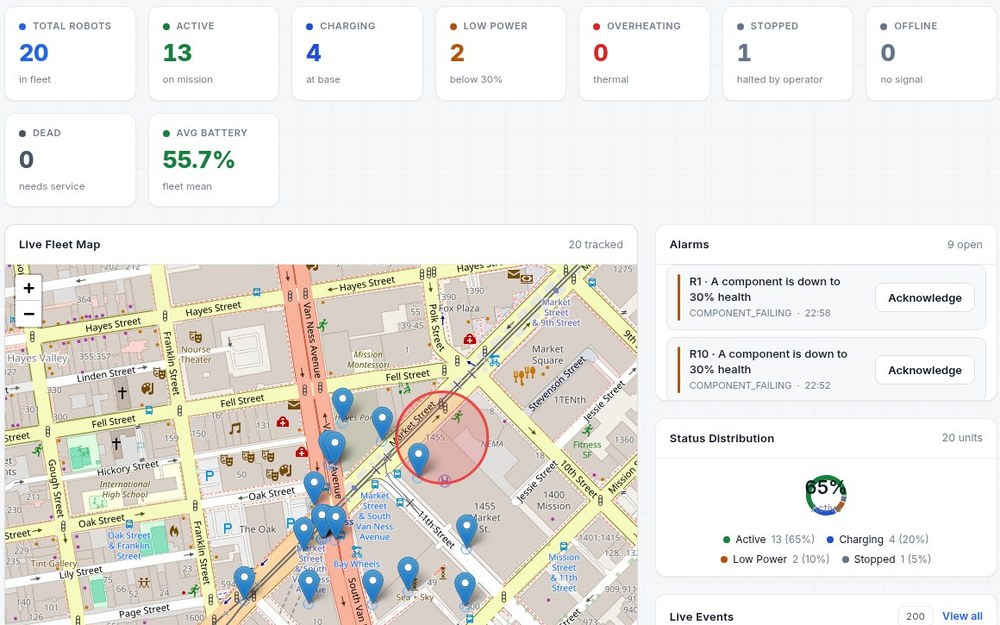
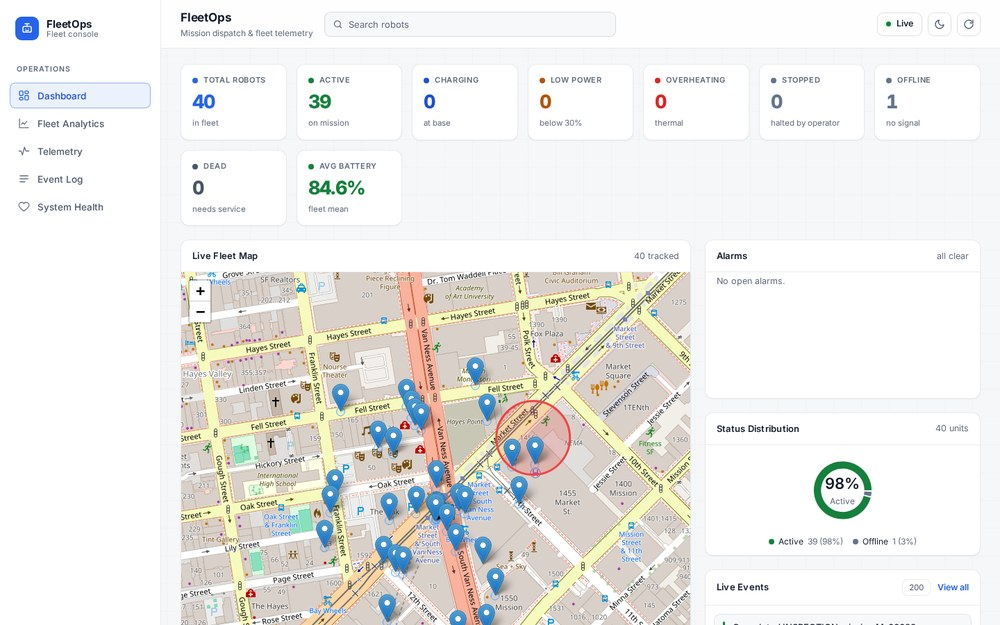
Add recent test results, new FleetOps screenshot and the intrusion detection project

diff --git a/README.md b/README.md
@@ -4,7 +4,7 @@
   <a href="https://www.linkedin.com/in/colin-k-thomas"><img src="https://img.shields.io/badge/LinkedIn-colin--k--thomas-0A66C2?style=flat-square" alt="LinkedIn"></a> <img src="https://img.shields.io/badge/Chennai-India-22C55E?style=flat-square" alt="Chennai, India"> <img src="https://img.shields.io/badge/VIT_Chennai-B.Tech_CSE_2027-7C3AED?style=flat-square" alt="VIT Chennai, B.Tech CSE, 2027">
 </p>
 
-I'm a computer science student at VIT Chennai. Most of what I write is backend code in Python, and the part I enjoy most is working out what happens when things fail: a broker restarting mid-stream, a worker dying halfway through a job, an API running out of quota. I cause those failures on purpose, fix what breaks and write down what I measured.
+I'm a computer science student at VIT Chennai. Most of what I write is backend code in Python, and the part I enjoy most is working out what happens when things fail: a broker restarting mid-stream, a worker dying halfway through a job, an API running out of quota. I cause those failures on purpose, fix what breaks and write down what I measured. The bigger projects also have browser, load and smoke tests, and the smoke tests run against the live sites.
 
 <img src="assets/numbers.svg" width="100%" alt="60 to 96 Hz with linuxcru; 30,000 rupees of college funding for the hyacinth boat; 98% Recall@5 in Lumen; notes 14.8 s after stopping in Meeting Summarizer; 0 readings lost in FleetOps chaos tests; 17 of 20 chart pages without paid vision calls">
 
@@ -40,7 +40,7 @@ Windows has CRU for adding custom refresh rates. On Linux, `xrandr` can't add mo
 
 linuxcru does all of that from one number. It calculates the timings, writes a valid EDID and installs it as a kernel firmware override, on Wayland or X11 and with Secure Boot. Only a small helper runs as root, and every change can be previewed with `--dry-run`.
 
-I built it so anyone can use it. It's open source, installs with pipx and works on Ubuntu, Debian, Linux Mint and other distros that boot with GRUB and initramfs-tools.
+I built it so anyone can use it. It's open source, installs with pipx and works on Ubuntu, Debian, Linux Mint and other distros that boot with GRUB and initramfs-tools. CI fails if tests cover less than 90% of the code, and each release goes through a manual test plan on real hardware.
 
 <img src="https://img.shields.io/badge/Python-3776AB?style=flat-square&logo=python&logoColor=white" alt="Python"> <img src="https://img.shields.io/badge/Qt_/_PySide6-41CD52?style=flat-square&logo=qt&logoColor=white" alt="Qt / PySide6"> <img src="https://img.shields.io/badge/EDID-F43F5E?style=flat-square" alt="EDID"> <img src="https://img.shields.io/badge/Linux-FCC624?style=flat-square&logo=linux&logoColor=black" alt="Linux"> <img src="https://img.shields.io/badge/pytest-0A9EDC?style=flat-square&logo=pytest&logoColor=white" alt="pytest">
 
@@ -60,9 +60,9 @@ I built it so anyone can use it. It's open source, installs with pipx and works 
 ### [FleetOps](https://github.com/colin-110/robot-fleet-platform)
 <sub><a href="https://robot-fleet-platform.vercel.app">Live demo</a> · <a href="https://github.com/colin-110/robot-fleet-platform">Code</a></sub>
 
-<a href="https://robot-fleet-platform.vercel.app"><img src="assets/screens/fleetops.jpg" alt="FleetOps live dashboard with fleet status and robots on the map"></a>
+<a href="https://robot-fleet-platform.vercel.app"><img src="assets/screens/fleetops.jpg" alt="FleetOps dashboard with fleet status, alarms and 40 robots on the map"></a>
 
-Monitoring and control for a robot fleet. Readings are acknowledged only after they're committed and robots keep an on-disk outbox, so chaos tests that killed the robots, the API or the broker lost nothing. A shared predictor cut robot messages by 55% in the simulator.
+Monitoring and control for a robot fleet. Readings are acknowledged only after they're committed and robots keep an on-disk outbox, so chaos tests that killed the robots, the API or the broker lost nothing. A shared predictor cut robot messages by 55% in the simulator, and one API process handled 1,000 robots on 35% of a CPU core. 942 tests run on every push.
 
 <img src="https://img.shields.io/badge/FastAPI-009688?style=flat-square&logo=fastapi&logoColor=white" alt="FastAPI"> <img src="https://img.shields.io/badge/MQTT-660066?style=flat-square&logo=mqtt&logoColor=white" alt="MQTT"> <img src="https://img.shields.io/badge/TimescaleDB-FDB515?style=flat-square&logo=timescale&logoColor=black" alt="TimescaleDB"> <img src="https://img.shields.io/badge/React-20232A?style=flat-square&logo=react&logoColor=61DAFB" alt="React">
 
@@ -88,7 +88,7 @@ A self-hosted document assistant that answers with citations. Hybrid search with
 
 <a href="https://meeting-summarizer-recorder.vercel.app"><img src="assets/screens/meeting-summarizer.jpg" alt="Meeting Summarizer upload and record page"></a>
 
-Turns a recording into a transcript, a summary, decisions and action items. Jobs run exactly once on a SQLite queue with leases and heartbeats instead of Redis and Celery, and long meetings are summarized while they're still being recorded.
+Turns a recording into a transcript, a summary, decisions and action items. Jobs run exactly once on a SQLite queue with leases and heartbeats instead of Redis and Celery, and long meetings are summarized while they're still being recorded. A smoke test runs against the live app every day.
 
 <img src="https://img.shields.io/badge/FastAPI-009688?style=flat-square&logo=fastapi&logoColor=white" alt="FastAPI"> <img src="https://img.shields.io/badge/SQLite-003B57?style=flat-square&logo=sqlite&logoColor=white" alt="SQLite"> <img src="https://img.shields.io/badge/Whisper-10A37F?style=flat-square" alt="Whisper"> <img src="https://img.shields.io/badge/FFmpeg-007808?style=flat-square&logo=ffmpeg&logoColor=white" alt="FFmpeg">
 
@@ -156,9 +156,10 @@ A Chrome extension that highlights problems I've ticked off on NeetCode but neve
 
 - [Robot kinematics simulator](https://github.com/colin-110/robot-kinematics-ik-simulator): forward and inverse kinematics for a 6-DOF arm, with a live 3D view
 - [Algal bloom forecasting](https://github.com/colin-110/hab_project_ml): an XGBoost model that predicts harmful algal blooms from satellite and climate data
+- [Hybrid intrusion detection](https://github.com/colin-110/Hybrid_IDS_ml_crypto): a Random Forest for known attacks and an Isolation Forest for unusual traffic, trained on UNSW-NB15 and run on live Windows network activity
 
 ## Tools
 
 <img src="https://img.shields.io/badge/Python-3776AB?style=flat-square&logo=python&logoColor=white" alt="Python"> <img src="https://img.shields.io/badge/C%2B%2B-00599C?style=flat-square&logo=cplusplus&logoColor=white" alt="C++"> <img src="https://img.shields.io/badge/Java-ED8B00?style=flat-square&logo=openjdk&logoColor=white" alt="Java"> <img src="https://img.shields.io/badge/TypeScript-3178C6?style=flat-square&logo=typescript&logoColor=white" alt="TypeScript"> <img src="https://img.shields.io/badge/SQL-4479A1?style=flat-square" alt="SQL"> <img src="https://img.shields.io/badge/FastAPI-009688?style=flat-square&logo=fastapi&logoColor=white" alt="FastAPI"> <img src="https://img.shields.io/badge/MQTT-660066?style=flat-square&logo=mqtt&logoColor=white" alt="MQTT"> <img src="https://img.shields.io/badge/Celery-37814A?style=flat-square&logo=celery&logoColor=white" alt="Celery"><br>
 <img src="https://img.shields.io/badge/PostgreSQL-4169E1?style=flat-square&logo=postgresql&logoColor=white" alt="PostgreSQL"> <img src="https://img.shields.io/badge/TimescaleDB-FDB515?style=flat-square&logo=timescale&logoColor=black" alt="TimescaleDB"> <img src="https://img.shields.io/badge/SQLite-003B57?style=flat-square&logo=sqlite&logoColor=white" alt="SQLite"> <img src="https://img.shields.io/badge/Redis-DC382D?style=flat-square&logo=redis&logoColor=white" alt="Redis"> <img src="https://img.shields.io/badge/Qdrant-DC244C?style=flat-square&logo=qdrant&logoColor=white" alt="Qdrant"> <img src="https://img.shields.io/badge/React-20232A?style=flat-square&logo=react&logoColor=61DAFB" alt="React"> <img src="https://img.shields.io/badge/Next.js-000000?style=flat-square&logo=nextdotjs&logoColor=white" alt="Next.js"><br>
-<img src="https://img.shields.io/badge/Docker-2496ED?style=flat-square&logo=docker&logoColor=white" alt="Docker"> <img src="https://img.shields.io/badge/AWS-FF9900?style=flat-square" alt="AWS"> <img src="https://img.shields.io/badge/GitHub_Actions-2088FF?style=flat-square&logo=githubactions&logoColor=white" alt="GitHub Actions"> <img src="https://img.shields.io/badge/Prometheus-E6522C?style=flat-square&logo=prometheus&logoColor=white" alt="Prometheus"> <img src="https://img.shields.io/badge/Grafana-F46800?style=flat-square&logo=grafana&logoColor=white" alt="Grafana"> <img src="https://img.shields.io/badge/Linux-FCC624?style=flat-square&logo=linux&logoColor=black" alt="Linux"> <img src="https://img.shields.io/badge/ESP32-E7352C?style=flat-square&logo=espressif&logoColor=white" alt="ESP32"> <img src="https://img.shields.io/badge/FreeRTOS-2E7D32?style=flat-square" alt="FreeRTOS">
+<img src="https://img.shields.io/badge/Playwright-2EAD33?style=flat-square" alt="Playwright"> <img src="https://img.shields.io/badge/Docker-2496ED?style=flat-square&logo=docker&logoColor=white" alt="Docker"> <img src="https://img.shields.io/badge/AWS-FF9900?style=flat-square" alt="AWS"> <img src="https://img.shields.io/badge/GitHub_Actions-2088FF?style=flat-square&logo=githubactions&logoColor=white" alt="GitHub Actions"> <img src="https://img.shields.io/badge/Prometheus-E6522C?style=flat-square&logo=prometheus&logoColor=white" alt="Prometheus"> <img src="https://img.shields.io/badge/Grafana-F46800?style=flat-square&logo=grafana&logoColor=white" alt="Grafana"> <img src="https://img.shields.io/badge/Linux-FCC624?style=flat-square&logo=linux&logoColor=black" alt="Linux"> <img src="https://img.shields.io/badge/ESP32-E7352C?style=flat-square&logo=espressif&logoColor=white" alt="ESP32"> <img src="https://img.shields.io/badge/FreeRTOS-2E7D32?style=flat-square" alt="FreeRTOS">
